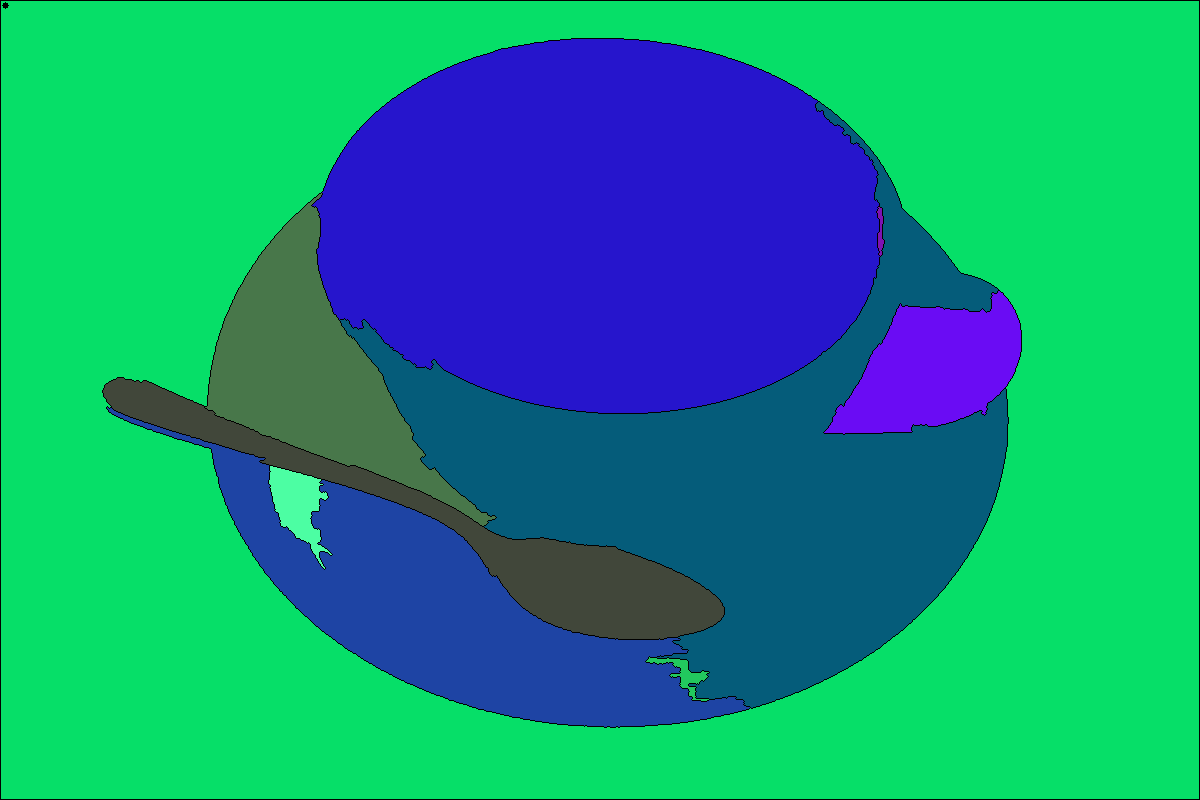
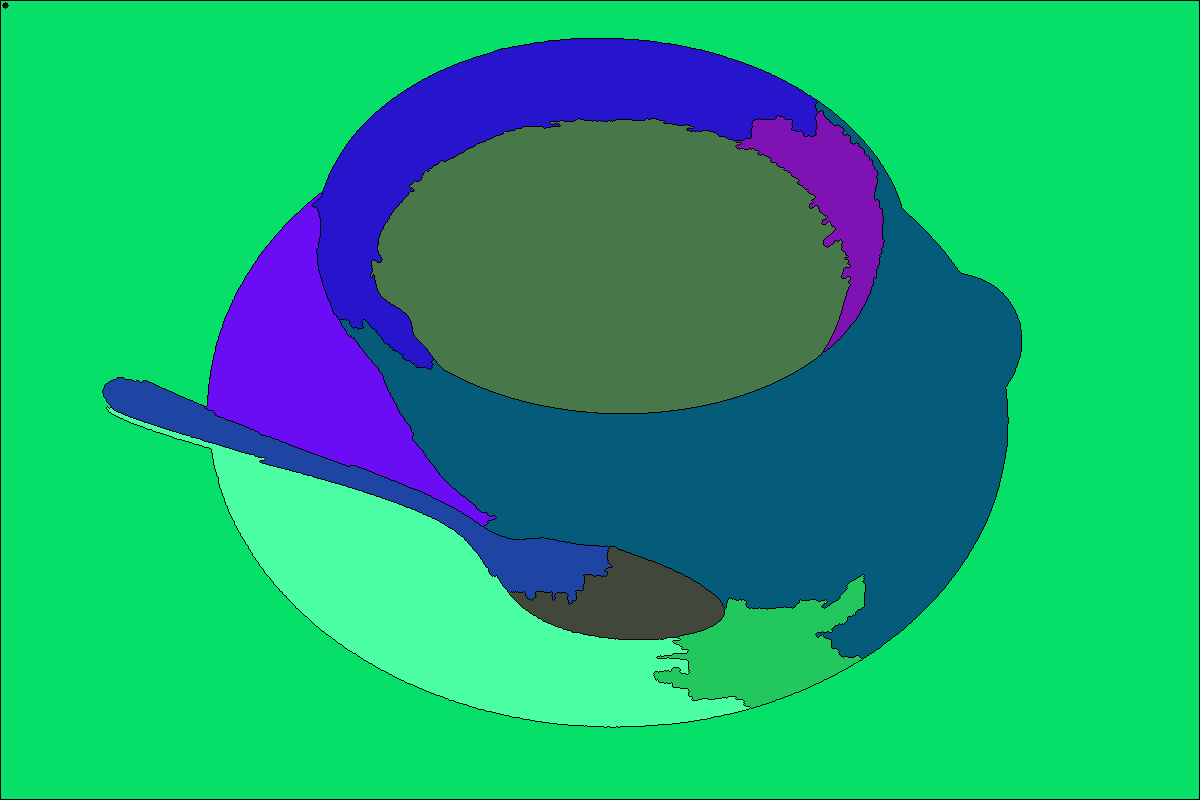
done...?

Changed region(s): [[0.0617, 0.125, 0.8633, 0.9062]]

diff --git a/lab_03/src/processing/watershed.py b/lab_03/src/processing/watershed.py
@@ -1,58 +1,39 @@
 import cv2 as cv
 import numpy as np
 import random as rng
+from utils import *
+from processing.canny import *
+
 rng.seed(3818061)
 
+def watershed(image):
+    gray = cv.cvtColor(image, cv.COLOR_BGR2GRAY)
+    edges_img = canny_alg(gray).astype('uint8')
+    inverted_edges = 255 - edges_img
+    dist = cv.distanceTransform(inverted_edges, cv.DIST_L2, 3)
+    cv.normalize(dist, dist, 0, 1.0, cv.NORM_MINMAX)
+    _, dist = cv.threshold(dist, 0.12, 1.0, cv.THRESH_BINARY)
+    dist_8u = dist.astype('uint8')
+    contours, _ = cv.findContours(dist_8u, cv.RETR_EXTERNAL, cv.CHAIN_APPROX_SIMPLE)
+    markers = np.zeros(dist.shape, dtype=np.int32)
 
-imgResult = cv.imread('lab_03/images/cup.png')
-edges_img = cv.imread('lab_03/images/cup_edges.png', cv.IMREAD_UNCHANGED)
+    for i in range(len(contours)):
+        cv.drawContours(markers, contours, i, (i+1), -1)
 
-inverted_edges = 255 - edges_img
+    cv.circle(markers, (5,5), 3, (255,255,255), -1)
+    cv.watershed(image, markers)
+    mark = markers.astype('uint8')
+    mark = cv.bitwise_not(mark)
+    colors = []
 
-cv.imshow('Inverted binary Image', inverted_edges)
-cv.waitKey(0)
-cv.destroyAllWindows()
+    for contour in contours:
+        colors.append((rng.randint(0,256), rng.randint(0,256), rng.randint(0,256)))
 
-dist = cv.distanceTransform(inverted_edges, cv.DIST_L2, 3)
+    dst = np.zeros((markers.shape[0], markers.shape[1], 3), dtype=np.uint8)
 
-cv.normalize(dist, dist, 0, 1.0, cv.NORM_MINMAX)
-cv.imshow('Distance Transform Image', dist)
-cv.waitKey(0)
-cv.destroyAllWindows()
-_, dist = cv.threshold(dist, 0.092, 1.0, cv.THRESH_BINARY)
-dist_8u = dist.astype('uint8')
-
-contours, _ = cv.findContours(dist_8u, cv.RETR_EXTERNAL, cv.CHAIN_APPROX_SIMPLE)
-
-markers = np.zeros(dist.shape, dtype=np.int32)
-
-for i in range(len(contours)):
-    cv.drawContours(markers, contours, i, (i+1), -1)
-
-cv.circle(markers, (5,5), 3, (255,255,255), -1)
-
-cv.watershed(imgResult, markers)
-
-mark = markers.astype('uint8')
-mark = cv.bitwise_not(mark)
-
-cv.imshow('Markers_v2', mark)
-cv.waitKey(0)
-cv.destroyAllWindows()
-
-colors = []
-for contour in contours:
-    colors.append((rng.randint(0,256), rng.randint(0,256), rng.randint(0,256)))
-
-dst = np.zeros((markers.shape[0], markers.shape[1], 3), dtype=np.uint8)
-
-for i in range(markers.shape[0]):
-    for j in range(markers.shape[1]):
-        index = markers[i,j]
-        if index > 0 and index <= len(contours):
-            dst[i,j,:] = colors[index-1]
-
-cv.imshow('Final Result', dst)
-cv.waitKey(0)
-cv.destroyAllWindows()
-cv.imwrite('lab_03/images/cup_watershed.png', dst)
+    for i in range(markers.shape[0]):
+        for j in range(markers.shape[1]):
+            index = markers[i,j]
+            if index > 0 and index <= len(contours):
+                dst[i,j,:] = colors[index-1]
+    return dst

diff --git a/lab_03/src/processing/canny.py b/lab_03/src/processing/canny.py
@@ -1,19 +1,19 @@
 import numpy as np 
 import os 
 import cv2 as cv
+from utils import *
 
-def canny(img, weak_th = None, strong_th = None): 
-    img = cv.cvtColor(img, cv.COLOR_BGR2GRAY) 
-    img = # НАШ ГАУСС cv.GaussianBlur(img, (3, 3), 1.4) # 5 5 1.4
+def canny_alg(img, weak_th = None, strong_th = None): 
+    img = cv.GaussianBlur(img, (3, 3), 0.7)
     
-    gx = # НАШ СОБЕЛЬ cv.Sobel(np.float32(img), cv.CV_64F, 1, 0, 3)
-    gy = # НАШ СОБЕЛЬ cv.Sobel(np.float32(img), cv.CV_64F, 0, 1, 3)
+    gx =cv.Sobel(np.float32(img), cv.CV_64F, 1, 0, 3)
+    gy =cv.Sobel(np.float32(img), cv.CV_64F, 0, 1, 3)
 
-    # ПЕРЕВОД В ПОЛЯРНЫЕ mag, ang = cv.cartToPolar(gx, gy, angleInDegrees = True) 
+    mag, ang = cv.cartToPolar(gx, gy, angleInDegrees = True) 
     mag_max = np.max(mag) 
     
-    if not weak_th:weak_th = mag_max * 0.09 # 0.1
-    if not strong_th:strong_th = mag_max * 0.17 # 0.5
+    if not weak_th:weak_th = mag_max * 0.09
+    if not strong_th:strong_th = mag_max * 0.17
 
     height, width = img.shape 
     for i_x in range(width): 
@@ -63,11 +63,4 @@ def canny(img, weak_th = None, strong_th = None):
                     mag[i_y, i_x] = 255
                 else:
                     mag[i_y, i_x] = 0
-
     return mag
-
-frame = cv.imread("C:/Users/Zerus/Desktop/234.png") 
-canny_img = Canny_detector(frame)
-cv.imshow("canny_img", canny_img)
-cv.waitKey(0)
-cv.destroyAllWindows()

diff --git a/lab_03/src/distance_map_demo.py b/lab_03/src/distance_map_demo.py
@@ -1,0 +1,32 @@
+import sys
+import argparse
+from time import perf_counter
+from processing.distance_map import *
+
+def build_argparser():
+    parser = argparse.ArgumentParser()
+    parser.add_argument('-i', '--input', help = 'Path to edges image', 
+        required = False, type = str, default = '../images/cup_edges.png', nargs = '+', dest = 'input')
+    return parser
+
+def get_distanse_map(image):
+    start = perf_counter()
+    dist = distance_map(image)
+    finish = perf_counter()
+    processing_time_dist = finish - start
+    cv.imshow("Distance map", dist)
+    cv.waitKey(0)
+    cv.destroyAllWindows()
+    return processing_time_dist
+
+def main():
+    args = build_argparser().parse_args()
+    image = cv.imread(args.input[0], cv.IMREAD_UNCHANGED)
+    cv.imshow("Edges image", image)
+    cv.waitKey(0)
+    cv.destroyAllWindows()
+    processing_time = get_distanse_map(image)
+    print("time: {}".format(processing_time))
+    
+if __name__ == '__main__':
+    sys.exit(main() or 0)

diff --git a/lab_03/src/watershed_demo.py b/lab_03/src/watershed_demo.py
@@ -1,0 +1,32 @@
+import sys
+import argparse
+from time import perf_counter
+from processing.watershed import *
+
+def build_argparser():
+    parser = argparse.ArgumentParser()
+    parser.add_argument('-i', '--input', help = 'Path to image', 
+        required = True, type = str, nargs = '+', dest = 'input')
+    return parser
+
+def apply_watershed(image):
+    start = perf_counter()
+    dist = watershed(image)
+    finish = perf_counter()
+    processing_time_watershed = finish - start
+    cv.imshow("Watershed", dist)
+    cv.waitKey(0)
+    cv.destroyAllWindows()
+    return processing_time_watershed
+
+def main():
+    args = build_argparser().parse_args()
+    image = cv.imread(args.input[0], cv.IMREAD_UNCHANGED)
+    cv.imshow("Image", image)
+    cv.waitKey(0)
+    cv.destroyAllWindows()
+    processing_time = apply_watershed(image)
+    print("time: {}".format(processing_time))
+    
+if __name__ == '__main__':
+    sys.exit(main() or 0)

diff --git a/lab_03/src/canny_demo.py b/lab_03/src/canny_demo.py
@@ -1,0 +1,32 @@
+import sys
+import argparse
+from time import perf_counter
+from processing.canny import *
+
+def build_argparser():
+    parser = argparse.ArgumentParser()
+    parser.add_argument('-i', '--input', help = 'Path to image', 
+        required = True, type = str, nargs = '+', dest = 'input')
+    return parser
+
+def apply_canny(image):
+    start = perf_counter()
+    edges_img = canny_alg(image)
+    finish = perf_counter()
+    processing_time_canny = finish - start
+    cv.imshow("Edges", edges_img)
+    cv.waitKey(0)
+    cv.destroyAllWindows()
+    return processing_time_canny
+
+def main():
+    args = build_argparser().parse_args()
+    image = cv.imread(args.input[0], 0)
+    cv.imshow("Grayscale Image", image)
+    cv.waitKey(0)
+    cv.destroyAllWindows()
+    processing_time = apply_canny(image)
+    print("time: {}".format(processing_time))
+    
+if __name__ == '__main__':
+    sys.exit(main() or 0)

diff --git a/lab_03/src/processing/distance_map.py b/lab_03/src/processing/distance_map.py
@@ -1,16 +1,12 @@
+import numpy as np 
+import os 
 import cv2 as cv
-import numpy as np
+from matplotlib import pyplot as plt
+from processing.utils import *
 
-edges_img = cv.imread('lab_03/images/cup_edges.png', cv.IMREAD_UNCHANGED)
-inverted_edges = 255 - edges_img
 
-cv.imshow('Inverted binary Image', inverted_edges)
-cv.waitKey(0)
-cv.destroyAllWindows()
-
-dist = cv.distanceTransform(inverted_edges, cv.DIST_L2, 3)
-
-cv.normalize(dist, dist, 0, 1.0, cv.NORM_MINMAX)
-cv.imshow('Distance Transform Image', dist)
-cv.waitKey(0)
-cv.destroyAllWindows()
+def distance_map(edges_img):
+    inverted_edges = 255 - edges_img
+    dist = cv.distanceTransform(inverted_edges, cv.DIST_L2, 3)
+    cv.normalize(dist, dist, 0, 1.0, cv.NORM_MINMAX)
+    return dist
